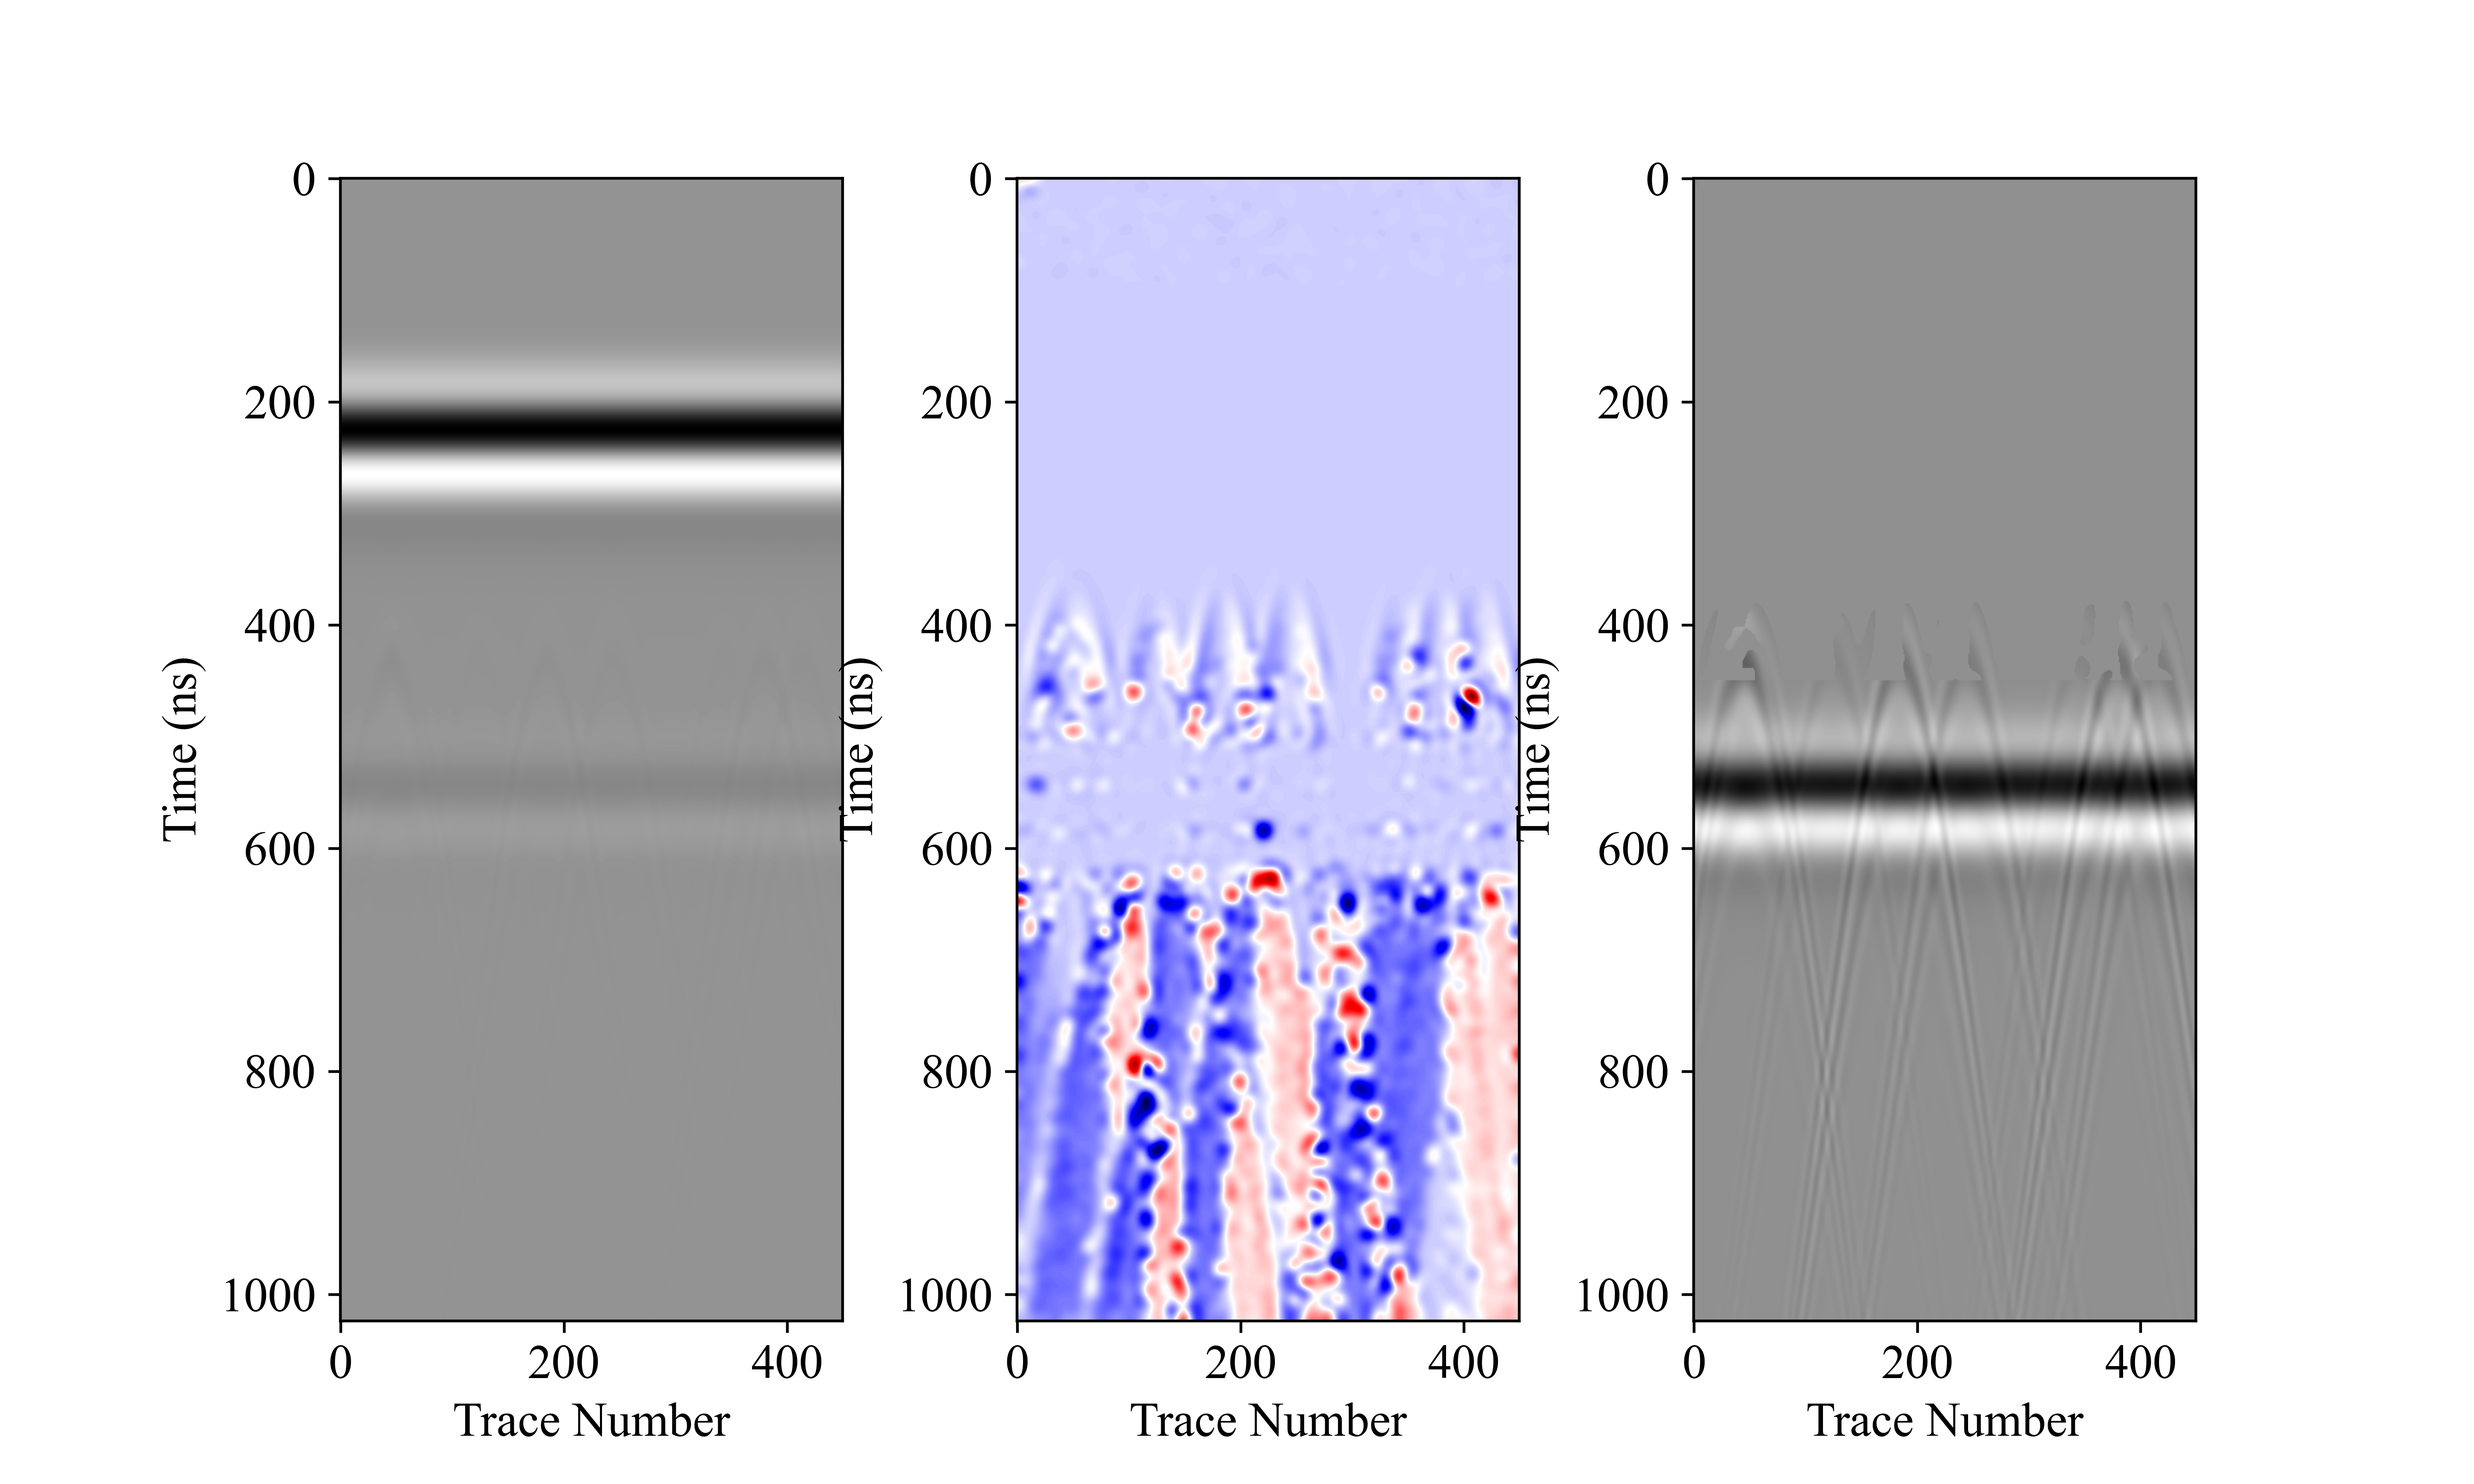
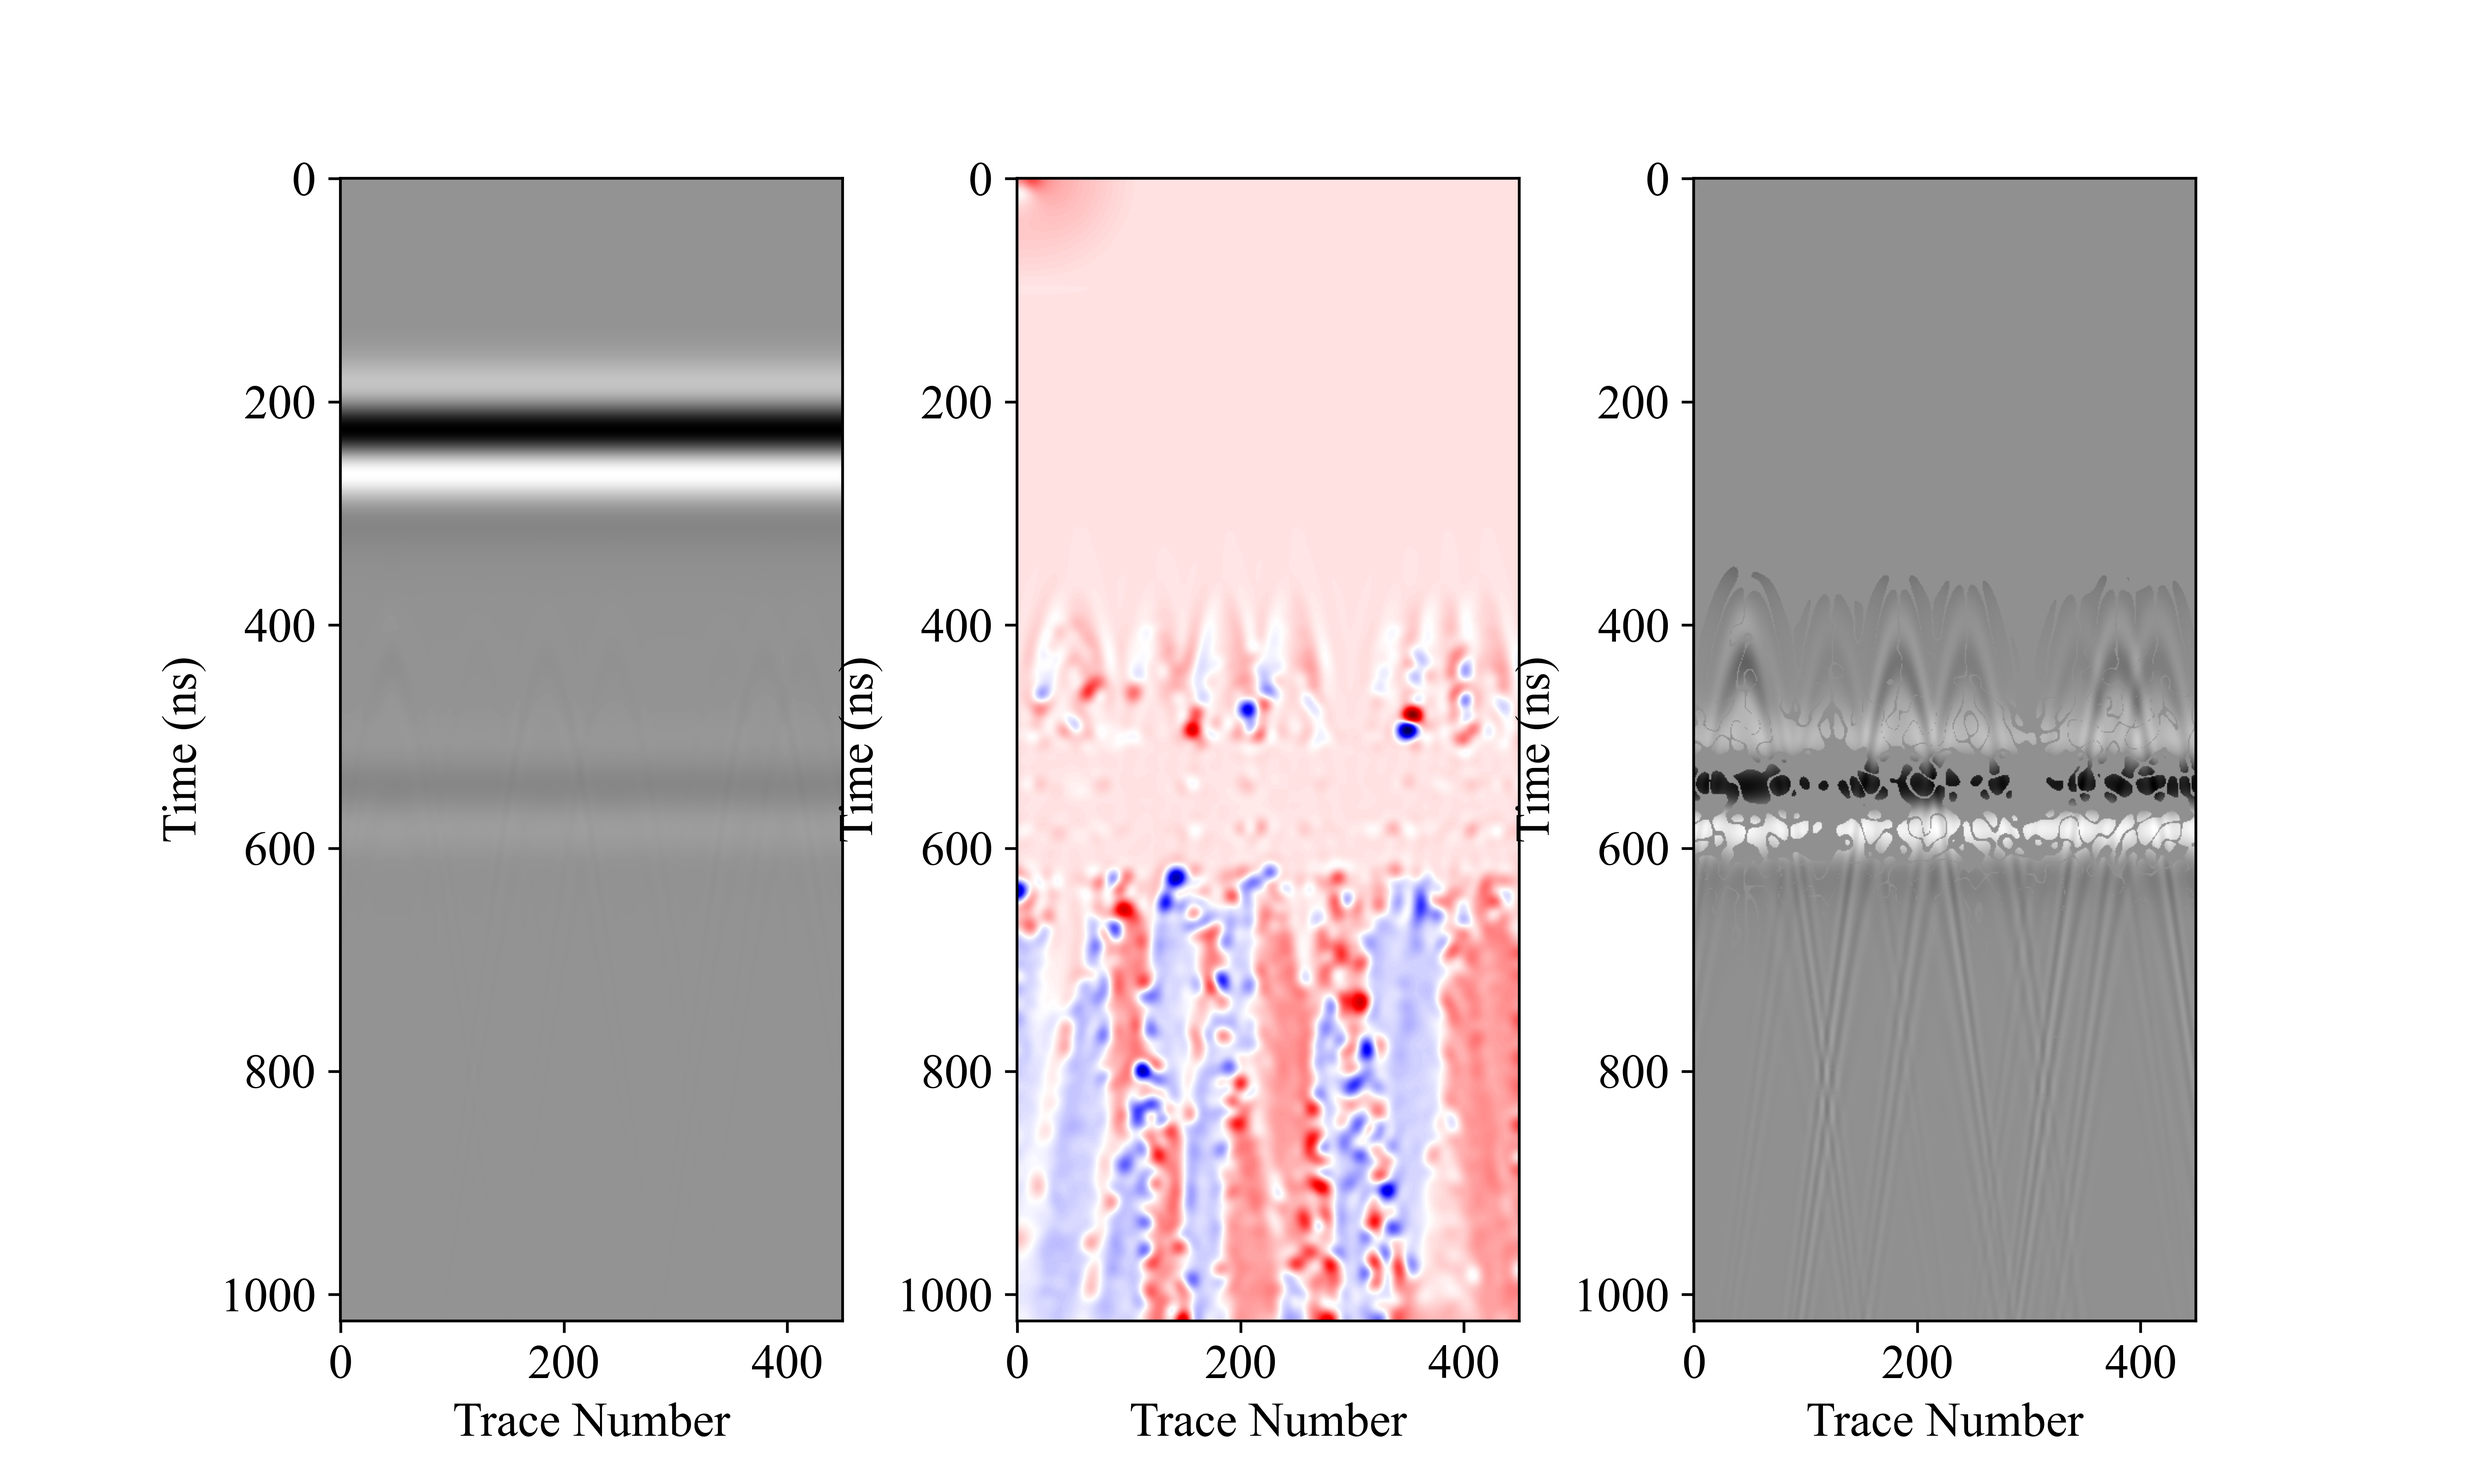
Updated plots

Changed region(s): [[0.4052, 0.0933, 0.6233, 0.9022], [0.6857, 0.4667, 0.9038, 0.5911], [0.6857, 0.4356, 0.7168, 0.4667]]

diff --git a/code2D/PWD/plot.py b/code2D/PWD/plot.py
@@ -8,8 +8,8 @@ import matplotlib.cm as cm
 plt.rc('font', family='Times New Roman', size=14)
 
 path = 'PWD/'
-# model = 'SLMO'
-model = 'ladder'
+model = 'SLMO'
+# model = 'ladder'
 
 dipFile = path+'dip_'+model+'.dat'
 orgFile = path+'org_'+model+'.dat'
@@ -29,11 +29,11 @@ plt.ylabel('Time (ns)')
 # plt.colorbar().set_label(r'$E_z \quad (V/m)$')
 
 
-threshold = 1
-for i in range(len(dip[0])):
-    for j in range(len(dip[1])):
-        if dip[i][j] < threshold:
-            sec[i][j] = 0
+threshold = 0.2
+for i in range(len(dip)):
+    for j in range(len(dip[0])):
+        if np.abs(dip[i][j]) < threshold:
+            sec[i][j] = sec[i][j] * 0
 
 
 # plot original trace and secTemp trace
